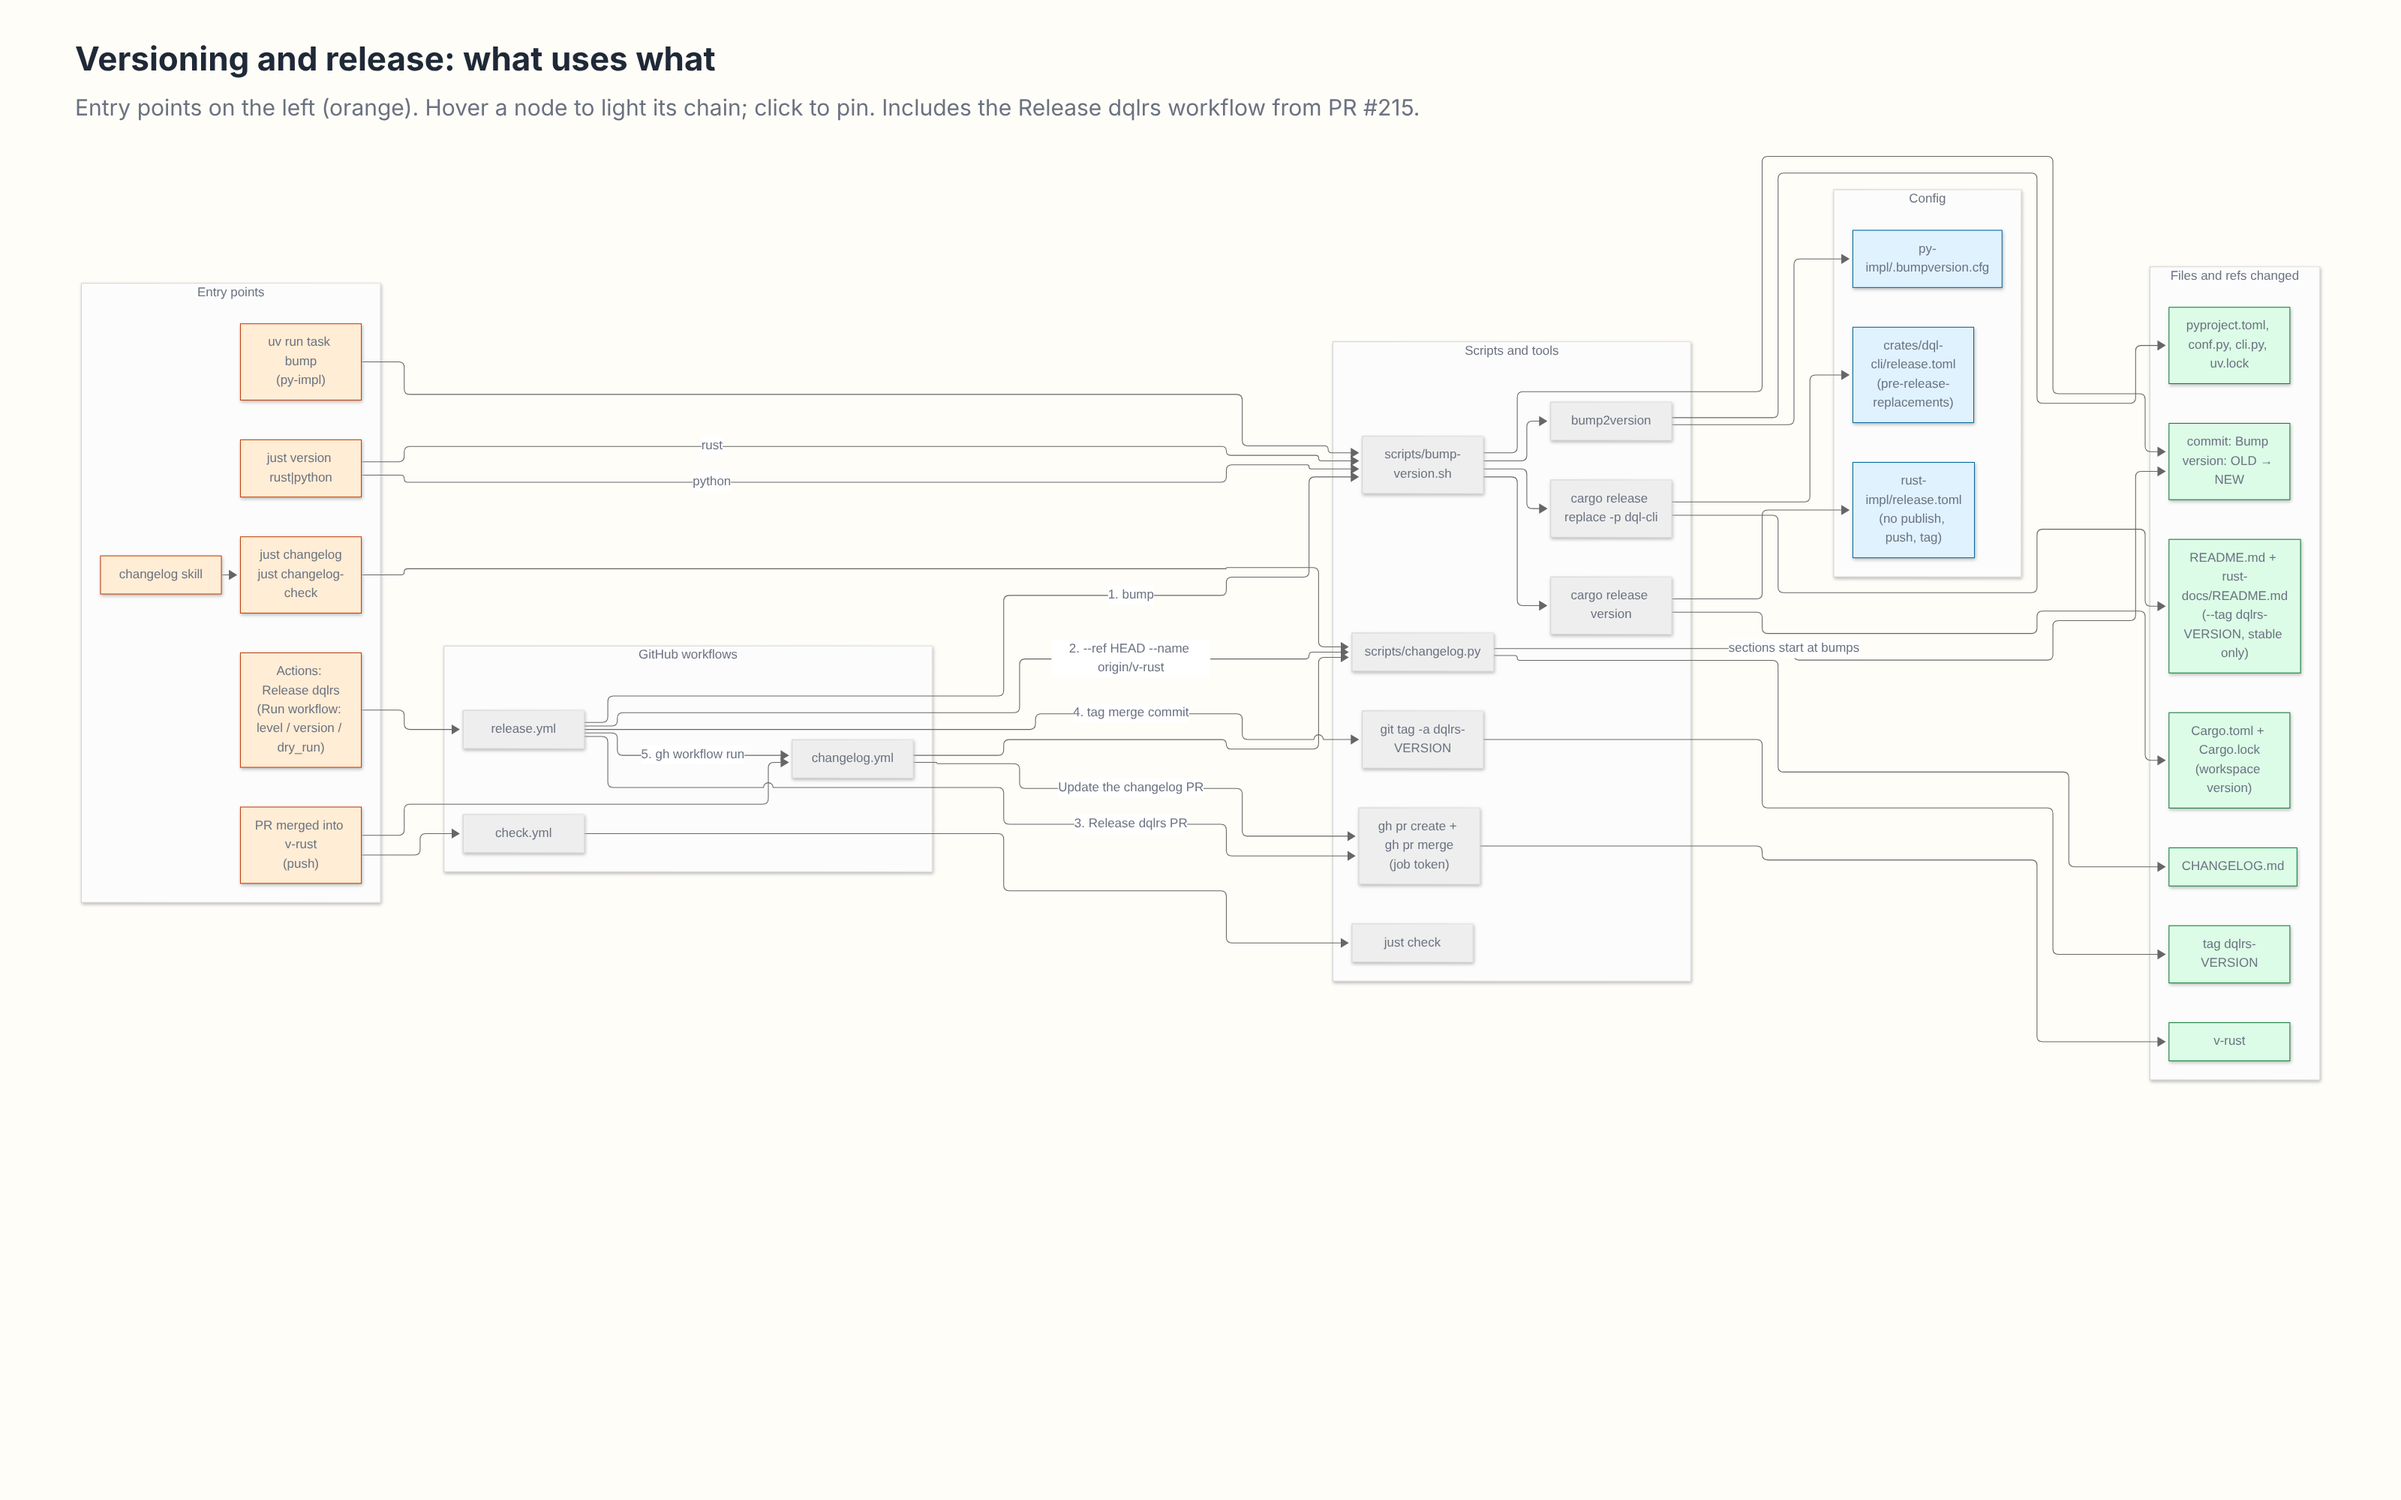
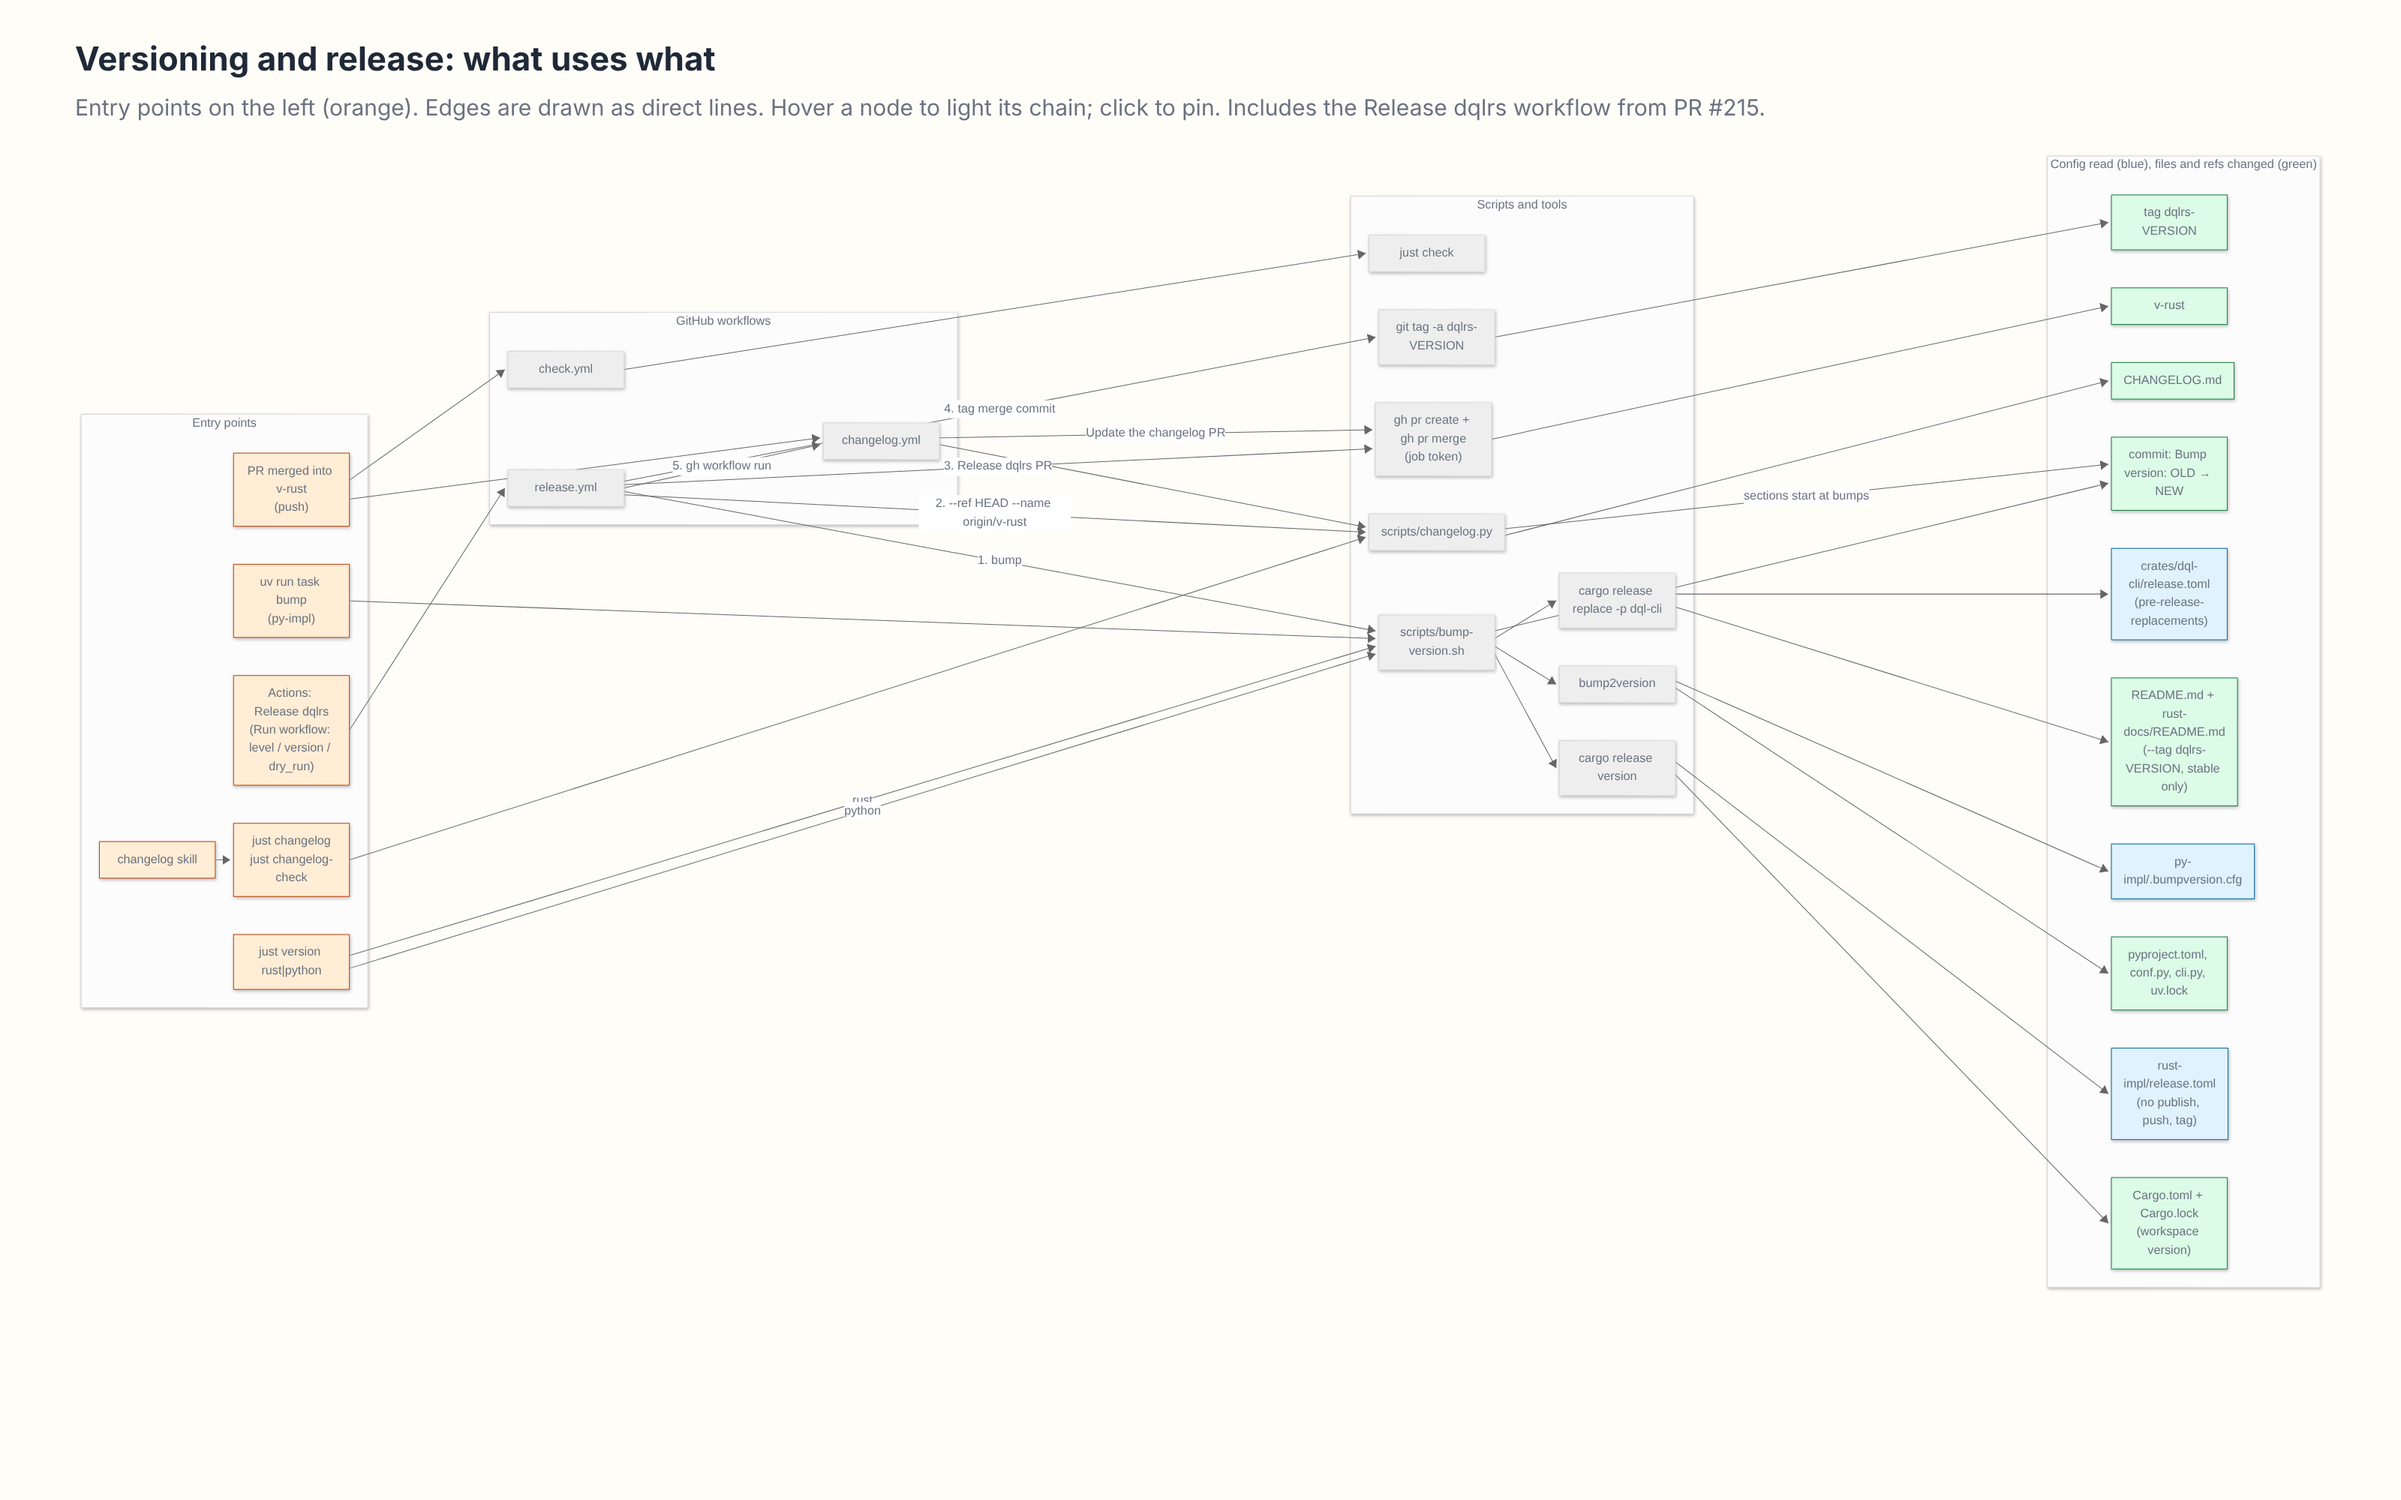
Draw the release flow graph with direct lines
Each edge is redrawn as one straight line after Mermaid lays it out.
Config and changed files share the last column, so no line passes
behind a box it does not point at.

Claude-Session: https://claude.ai/code/session_01UxJe5gZ1uBbk1DRFLucxG1

diff --git a/screenshots/release-flow/release-flow.html b/screenshots/release-flow/release-flow.html
@@ -32,7 +32,7 @@
 <body>
 <main>
 <h1>Versioning and release: what uses what</h1>
-<p>Entry points on the left (orange). Hover a node to light its chain; click to pin. Includes the Release dqlrs workflow from PR #215.</p>
+<p>Entry points on the left (orange). Edges are drawn as direct lines. Hover a node to light its chain; click to pin. Includes the Release dqlrs workflow from PR #215.</p>
 <div id="call-graph">
 <pre class="mermaid">
 flowchart LR
@@ -66,13 +66,10 @@ flowchart LR
     justCheck["just check"]
   end
 
-  subgraph config [Config]
+  subgraph outputs ["Config read (blue), files and refs changed (green)"]
     wsRelease["rust-impl/release.toml<br/>(no publish, push, tag)"]
     cliRelease["crates/dql-cli/release.toml<br/>(pre-release-replacements)"]
     pyBumpCfg["py-impl/.bumpversion.cfg"]
-  end
-
-  subgraph outputs [Files and refs changed]
     cargoToml["Cargo.toml + Cargo.lock<br/>(workspace version)"]
     readmes["README.md + rust-docs/README.md<br/>(--tag dqlrs-VERSION, stable only)"]
     pyFiles["pyproject.toml, conf.py, cli.py, uv.lock"]
@@ -129,8 +126,23 @@ flowchart LR
   const pre = document.querySelector('#call-graph pre.mermaid');
   const source = pre.textContent;
   await mermaid.run();
+  straightenEdges(document.querySelector('#call-graph svg'));
   highlightCallChain(document.querySelector('#call-graph svg'), source);
   document.body.dataset.rendered = '1';
+
+  // Mermaid routes edges with corners. Redraw each one as a single straight line from where it
+  // leaves its source to where it enters its target, and move its label to the middle.
+  function straightenEdges(svg) {
+    for (const path of svg.querySelectorAll('path.flowchart-link')) {
+      const length = path.getTotalLength();
+      const start = path.getPointAtLength(0);
+      const end = path.getPointAtLength(length);
+      path.setAttribute('d', `M${start.x},${start.y} L${end.x},${end.y}`);
+      const marker = path.id.match(/L_.+_\d+$/)?.[0];
+      const label = marker && svg.querySelector(`.edgeLabel .label[data-id="${marker}"]`)?.closest('.edgeLabel');
+      if (label) label.setAttribute('transform', `translate(${(start.x + end.x) / 2}, ${(start.y + end.y) / 2})`);
+    }
+  }
 
   function highlightCallChain(svg, source) {
     const edges = [];
